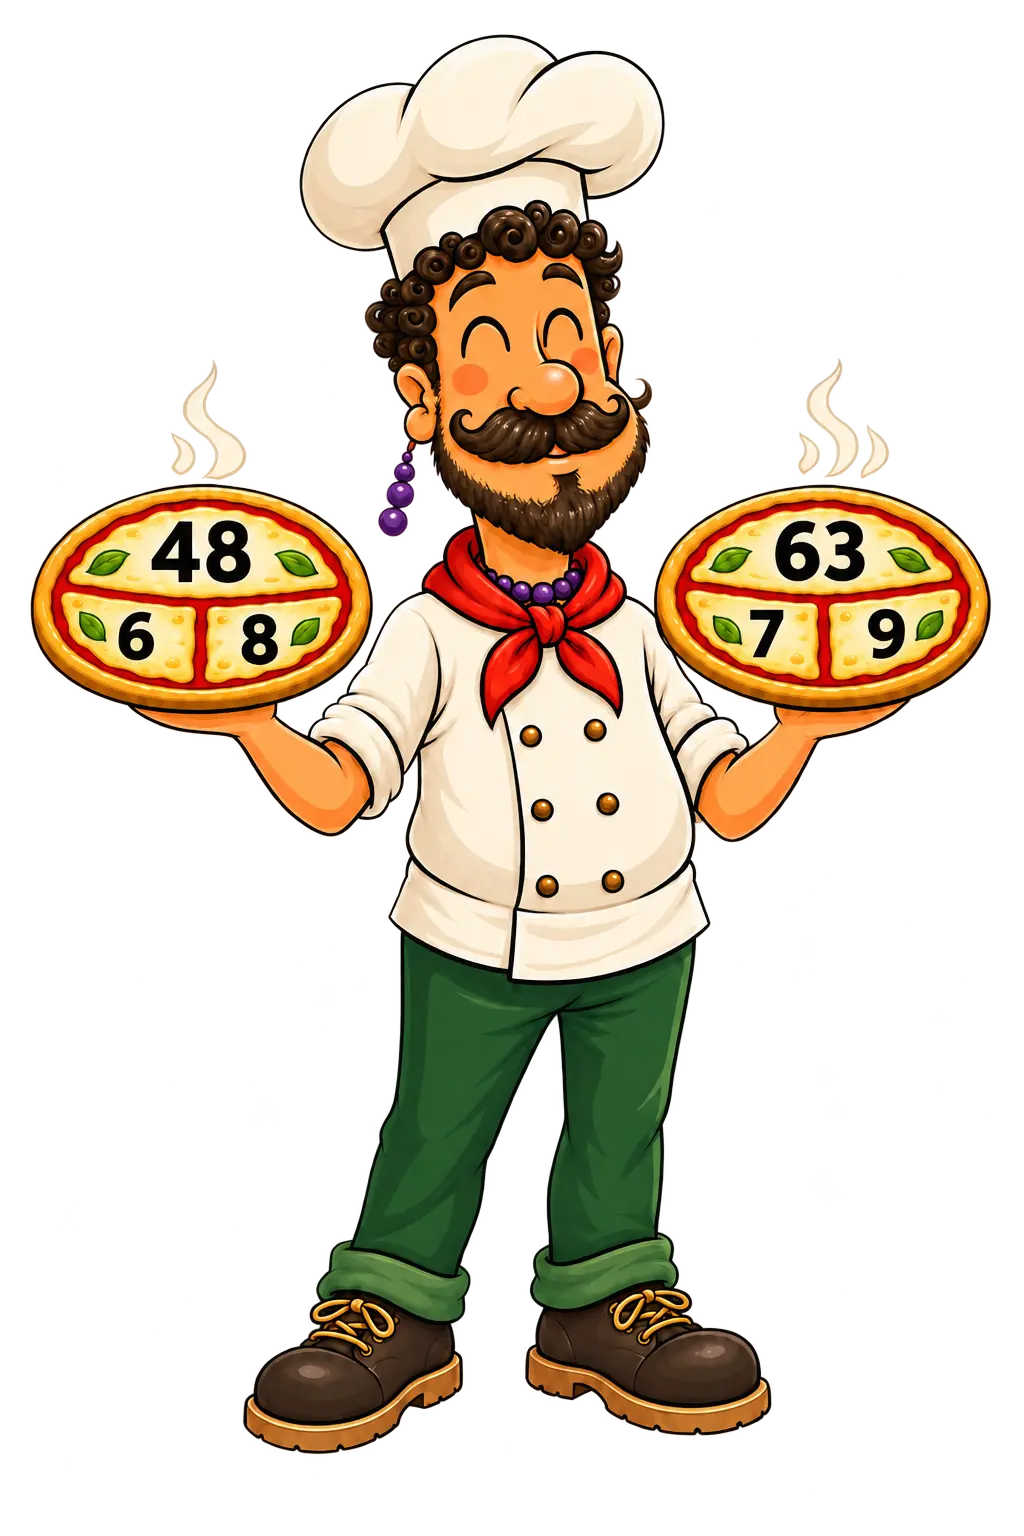
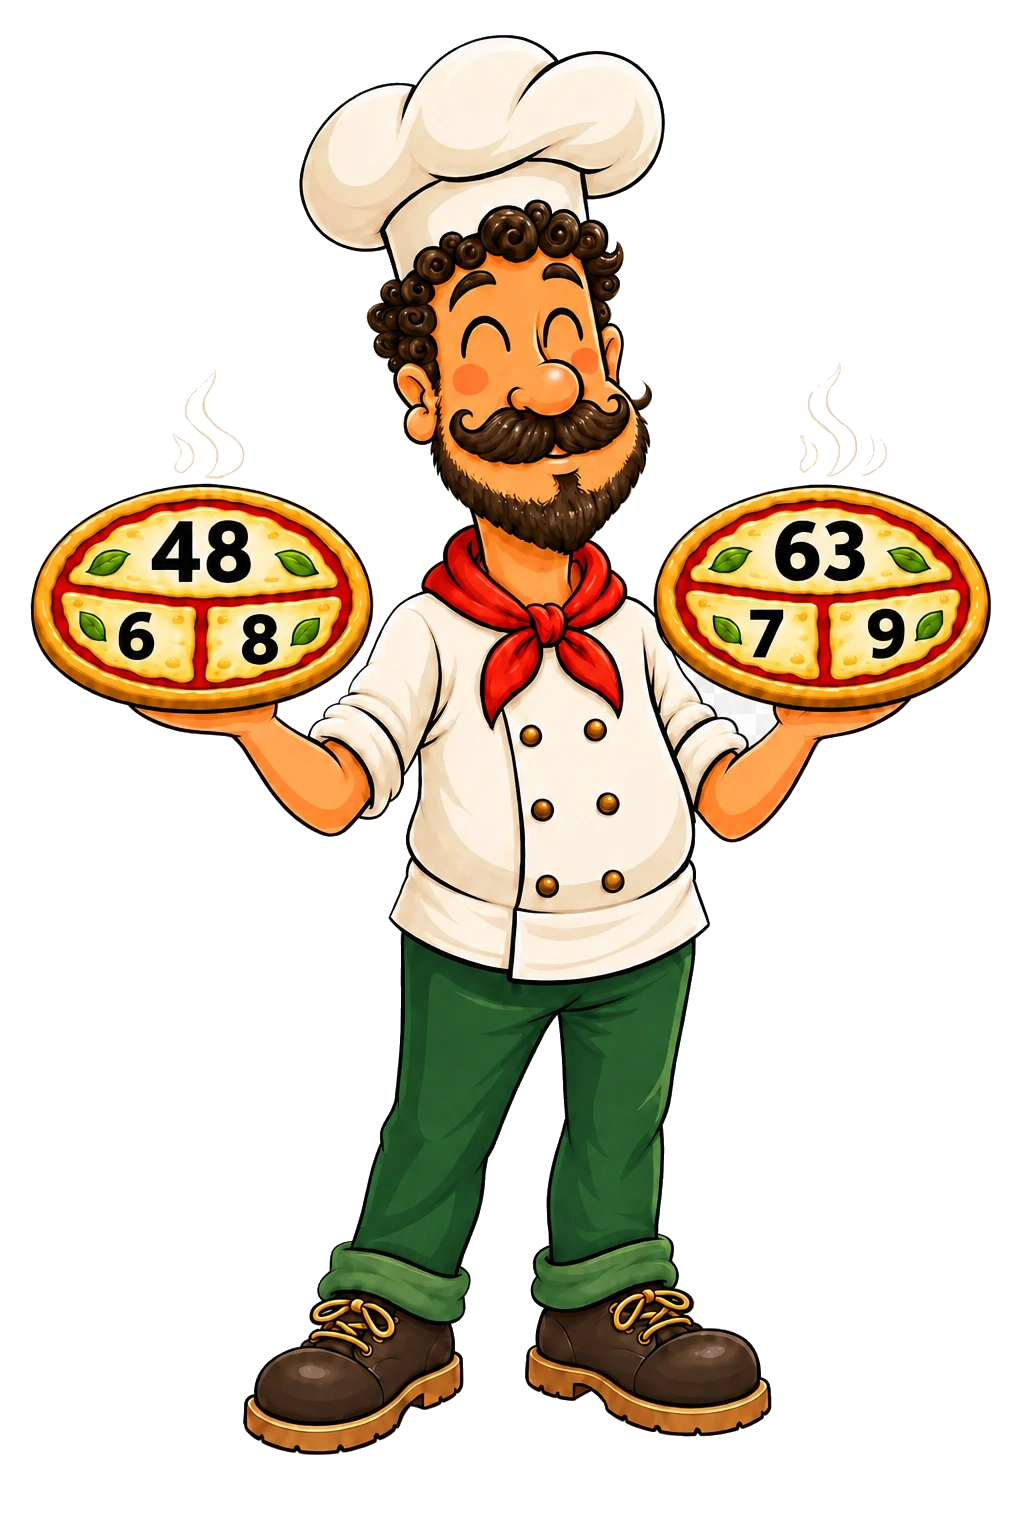
Add school windows with trees and heroes; remove Luigi jewelry throughout site

diff --git a/fps-windows.js b/fps-windows.js
@@ -1,0 +1,137 @@
+import * as THREE from 'three';
+import { createSpriteRig } from './fps-visuals.js?v=20260907-sprites1';
+
+// Decorative exterior, isolated from the game and multiplayer rules.
+export function createSchoolWindows({ scene, box, wallMaterial, wallHeight = 3.7 }) {
+  const x = 27, width = 7, sill = .65, top = 3.35;
+  const centers = [-16, 0, 16];
+  const frameMaterial = new THREE.MeshStandardMaterial({ color:0x375d67, roughness:.55 });
+  const sillMaterial = new THREE.MeshStandardMaterial({ color:0xf7ecd2, roughness:.75 });
+  const glassMaterial = new THREE.MeshBasicMaterial({
+    color:0xc5edff, transparent:true, opacity:.045, depthWrite:false,
+  });
+  let edge = -27;
+  for (const z of centers) {
+    const start = z - width/2, end = z + width/2;
+    box(x,wallHeight/2,(edge+start)/2,.45,wallHeight,start-edge,wallMaterial);
+    box(x,sill/2,z,.45,sill,width,wallMaterial);
+    box(x,(top+wallHeight)/2,z,.45,wallHeight-top,width,wallMaterial);
+    // Glass retains the original solid boundary, including for pencils/enemies.
+    const glass = box(x,(sill+top)/2,z,.025,top-sill,width,glassMaterial);
+    glass.castShadow = false;
+    for (const side of [-1,1]) box(x-.04,(sill+top)/2,z+side*width/2,.57,top-sill+.16,.12,frameMaterial,false);
+    for (const y of [sill,top]) box(x-.04,y,z,.57,.12,width+.12,frameMaterial,false);
+    // Narrow side panes leave an uninterrupted view of each character.
+    for (const side of [-1,1]) box(x-.06,(sill+top)/2,z+side*2.35,.13,top-sill,.07,frameMaterial,false);
+    box(x-.16,sill-.04,z,.92,.14,width+.28,sillMaterial,false);
+    edge = end;
+  }
+  box(x,wallHeight/2,(edge+27)/2,.45,wallHeight,27-edge,wallMaterial);
+
+  const exterior = new THREE.Group();
+  exterior.name = 'Vinduesudsigt med træer og matematikhelte';
+  scene.add(exterior);
+  const lawn = new THREE.Mesh(new THREE.PlaneGeometry(44,100),new THREE.MeshStandardMaterial({color:0x709856,roughness:1}));
+  lawn.rotation.x = -Math.PI/2;
+  lawn.position.set(49,-.03,0);
+  lawn.receiveShadow = true;
+  exterior.add(lawn);
+  const path = new THREE.Mesh(new THREE.PlaneGeometry(3.5,62),new THREE.MeshStandardMaterial({color:0xd4c2a1,roughness:1}));
+  path.rotation.x = -Math.PI/2;
+  path.position.set(30,.005,0);
+  exterior.add(path);
+  const trunkMaterial = new THREE.MeshStandardMaterial({color:0x78533b,roughness:1});
+  const leafMaterials = [0x507c40,0x649044,0x3d6b3d].map(color=>new THREE.MeshStandardMaterial({color,roughness:1}));
+  const trunkGeometry = new THREE.CylinderGeometry(.18,.3,3.3,7);
+  const crownGeometry = new THREE.IcosahedronGeometry(1.8,1);
+  const crowns = [];
+  for (let i=0;i<18;i++) {
+    const tree = new THREE.Group();
+    tree.position.set(36+(i%3)*6,0,-33+i*4);
+    tree.scale.setScalar(.8+(i%4)*.13);
+    const trunk = new THREE.Mesh(trunkGeometry,trunkMaterial);
+    trunk.position.y = 1.65; trunk.castShadow = true;
+    tree.add(trunk);
+    const crown = new THREE.Mesh(crownGeometry,leafMaterials[i%3]);
+    crown.position.y = 3.8; crown.scale.set(1,1.3,.9); crown.castShadow = true;
+    tree.add(crown); crowns.push(crown);
+    exterior.add(tree);
+  }
+
+  const heroes = [];
+  const ready = Promise.allSettled([
+    addHero('kaptajn-vindue-flex.png',-16,'Kaptajn Kvadratrod',true),
+    addHero('luigi-vindue-54-63.png',16,'Luigi · 54 og 63',false),
+  ]);
+  async function addHero(file,z,name,flex) {
+    try {
+      const source = await new THREE.TextureLoader().loadAsync(`assets/figurer/${file}`);
+      const texture = spriteTexture(source.image);
+      source.dispose();
+      const rig = createSpriteRig(texture,{
+        width:2.6,height:3.9,bodyY:1.95,
+        joints:{head:[.5,.88],leftArm:[.35,.80],rightArm:[.65,.80],leftLeg:[.42,.30],rightLeg:[.58,.30]},
+        skinWeights(u,v,ease) {
+          if (!flex) return null;
+          if (v>.74 && u<.39) return {bone:2,weight:(1-ease(u,.30,.39))*ease(v,.74,.82)};
+          if (v>.74 && u>.61) return {bone:3,weight:ease(u,.61,.70)*ease(v,.74,.82)};
+          return null;
+        },
+      });
+      rig.group.name = name;
+      rig.group.position.set(31,0,z);
+      rig.group.rotation.y = -Math.PI/2;
+      exterior.add(rig.group);
+      heroes.push({rig,flex});
+    } catch (error) {
+      console.warn(`Figuren ved vinduet kunne ikke indlæses: ${name}`,error);
+      throw error;
+    }
+  }
+  return {
+    ready,
+    update(time) {
+      const t = time*.001;
+      for (const {rig,flex} of heroes) {
+        if (flex) {
+          const squeeze = .5+.5*Math.sin(t*2.7);
+          rig.leftArm.rotation.z = -.08-squeeze*.10;
+          rig.rightArm.rotation.z = .08+squeeze*.10;
+          rig.body.scale.x = 1+squeeze*.025;
+        } else rig.group.rotation.z = Math.sin(t*1.5)*.012;
+      }
+      crowns.forEach((c,i)=>c.rotation.z=Math.sin(t*.8+i)*.025);
+    },
+  };
+}
+
+function spriteTexture(image) {
+  const canvas = document.createElement('canvas');
+  canvas.width = image.naturalWidth; canvas.height = image.naturalHeight;
+  const ctx = canvas.getContext('2d',{willReadFrequently:true});
+  ctx.drawImage(image,0,0);
+  const pixels = ctx.getImageData(0,0,canvas.width,canvas.height);
+  const data = pixels.data, w = canvas.width, h = canvas.height;
+  // Some source sprites include an opaque light checkerboard. Remove only
+  // edge-connected neutral background, preserving enclosed whites in clothing.
+  const seen = new Uint8Array(w*h), queue = new Int32Array(w*h);
+  let head = 0, tail = 0;
+  function push(i) {
+    if (seen[i]) return;
+    const p=i*4, lo=Math.min(data[p],data[p+1],data[p+2]), hi=Math.max(data[p],data[p+1],data[p+2]);
+    if (data[p+3]>0 && (lo<211 || hi-lo>25)) return;
+    seen[i]=1; queue[tail++]=i;
+  }
+  for (let xx=0;xx<w;xx++) { push(xx); push((h-1)*w+xx); }
+  for (let yy=0;yy<h;yy++) { push(yy*w); push(yy*w+w-1); }
+  while (head<tail) {
+    const i=queue[head++], xx=i%w;
+    data[i*4+3]=0;
+    if(xx>0) push(i-1); if(xx<w-1) push(i+1);
+    if(i>=w) push(i-w); if(i<w*(h-1)) push(i+w);
+  }
+  ctx.putImageData(pixels,0,0);
+  const texture = new THREE.CanvasTexture(canvas);
+  texture.colorSpace = THREE.SRGBColorSpace;
+  return texture;
+}

diff --git a/app.js b/app.js
@@ -568,7 +568,7 @@
             <h1>Matematik på solidt fundament</h1>
           </div>
           <div class="login-mastery-tower">
-            <img class="login-mastery-tower-image" src="assets/figurer/matematik-mestringstaarn.webp" width="858" height="1832" alt="Matematik-mestringstårn med Erling Ærgerlig nederst, Luigi Lækkermat med sine pizzaer, Divisions-Dennis med slikkepinde og Kaptajn Kvadratrod øverst" fetchpriority="high" decoding="async">
+            <img class="login-mastery-tower-image" src="assets/figurer/matematik-mestringstaarn.webp?v=20260907-no-smykker1" width="858" height="1832" alt="Matematik-mestringstårn med Erling Ærgerlig nederst, Luigi Lækkermat med sine pizzaer, Divisions-Dennis med slikkepinde og Kaptajn Kvadratrod øverst" fetchpriority="high" decoding="async">
           </div>
           <div class="character-stage" aria-label="Figurerne fra Jacob Matematik">
             <figure class="character-card captain" data-kaptajn-audio role="button" tabindex="0" aria-label="Afspil Kaptajn Kvadratrods superheltereplik">
@@ -580,7 +580,7 @@
               <figcaption>Divisions-Dennis</figcaption>
             </figure>
             <figure class="character-card luigi" data-luigi-audio role="button" tabindex="0" aria-label="Afspil Luigi Lækkermats italienske replik">
-              <div class="character-frame"><img src="assets/figurer/luigi-laekkermat.webp" width="900" height="1350" alt="Luigi Lækkermat med multiplikationspizzaer" decoding="async"></div>
+              <div class="character-frame"><img src="assets/figurer/luigi-laekkermat.webp?v=20260907-no-smykker1" width="900" height="1350" alt="Luigi Lækkermat med multiplikationspizzaer" decoding="async"></div>
               <figcaption>Luigi Lækkermat</figcaption>
             </figure>
             <figure class="character-card erling" data-erling-audio role="button" tabindex="0" aria-label="Afspil en sur kommentar fra Erling Ærgerlig">
@@ -898,7 +898,7 @@
         <span class="luigi-pizza-pop pizza-one" aria-hidden="true">🍕</span>
         <span class="luigi-pizza-pop pizza-two" aria-hidden="true">🍕</span>
         <span class="luigi-pizza-pop pizza-three" aria-hidden="true">🍕</span>
-        <img class="luigi-character" src="assets/figurer/luigi-laekkermat-cutout.webp" width="1024" height="1536" loading="lazy" decoding="async" alt="Luigi Lækkermat holder pizzaerne 48 delt i 6 og 8 samt 63 delt i 7 og 9">
+        <img class="luigi-character" src="assets/figurer/luigi-laekkermat-cutout.webp?v=20260907-no-smykker1" width="1024" height="1536" loading="lazy" decoding="async" alt="Luigi Lækkermat holder pizzaerne 48 delt i 6 og 8 samt 63 delt i 7 og 9">
       </button>
     </section>` : "";
 

diff --git a/fps.js b/fps.js
@@ -1,4 +1,5 @@
 import * as THREE from 'three';
+import { createSchoolWindows } from './fps-windows.js?v=20260907-windows1';
 import { createGameVoicePlayer } from './fps-voice.js?v=20260907-danish1';
 const gameVoice = createGameVoicePlayer();
 import { createPlayerMovement } from './fps-movement.js?v=20260907-ducts1';
@@ -9,7 +10,7 @@ import { createOnlineGame } from './fps-online.js?v=20260907-online1';
 let multiplayer = null;
 import { createSchoolyard } from './fps-schoolyard.js?v=20260907-courtyard1';
 import { PointerLockControls } from 'three/addons/controls/PointerLockControls.js';
-import { createErlingRig, animateErling, disposeErlingRig, addSchoolWallArt } from './fps-visuals.js?v=20260907-sprites1';
+import { createErlingRig, animateErling, disposeErlingRig, addSchoolWallArt } from './fps-visuals.js?v=20260907-no-smykker1';
 import { createGunnarRig, animateGunnar, disposeGunnarRig } from './fps-gunnar.js?v=20260907-sprites1';
 import { createElseRig, animateElse, disposeElseRig } from './fps-else.js?v=20260907-sprites1';
 
@@ -207,7 +208,7 @@ box(0, WALL_H + .1, 0, WORLD + .45, .2, WORLD + .45, interiorMaterials.ceiling, 
 box(0, WALL_H / 2, -WORLD / 2, WORLD, WALL_H, .45);
 box(0, WALL_H / 2, WORLD / 2, WORLD, WALL_H, .45);
 box(-WORLD / 2, WALL_H / 2, 0, .45, WALL_H, WORLD);
-box(WORLD / 2, WALL_H / 2, 0, .45, WALL_H, WORLD);
+const schoolWindows = createSchoolWindows({ scene, box, wallMaterial:wallMat, wallHeight:WALL_H });
 const schoolPartition = createDuctBuilder({ box, wallMaterial:wallMat, wallHeight:WALL_H, renderer });
 [
   [-13,-17,18,.35,true],[-13,1,18,.35],[-13,20,14,.35],
@@ -216,7 +217,7 @@ const schoolPartition = createDuctBuilder({ box, wallMaterial:wallMat, wallHeigh
   [-21,10,.35,14],[-6,10,.35,12,true],[9,10,.35,10,true],[21,10,.35,11],
 ].forEach(([x,z,w,d,hasDuct]) => schoolPartition(x,z,w,d,hasDuct));
 box(-26, 1.15, -2, .08, 1.25, 8, trimMat, false);
-box(26, 1.15, 5, .08, 1.25, 9, trimMat, false);
+box(26, 1.15, 7, .08, 1.25, 4, trimMat, false);
 box(-19, 1.65, -26.7, 8, 1.55, .08, mat(0x29483e), false);
 box(19, 1.65, 26.7, 8, 1.55, .08, mat(0x29483e), false);
 [
@@ -1117,6 +1118,7 @@ function update(dt, time) {
 function loop(t) {
   const dt = Math.min((t - last) / 1000, .04);
   last = t;
+  schoolWindows.update(t);
   update(dt,t);
   renderer.render(scene,camera);
   requestAnimationFrame(loop);

diff --git a/fps-visuals.js b/fps-visuals.js
@@ -166,7 +166,7 @@ export function addSchoolWallArt(scene, renderer) {
   ].forEach(([x, y, z, yaw]) => mount(brand.texture, 'jacobmatematik.dk', x, y, z, 5.2, 1.3, yaw));
 
   const heroes = [
-    { name: 'LUIGI LÆKKERMAT', file: 'luigi-laekkermat.webp', color: '#bf5738', motto: 'EN BID AD GANGEN', number: '01' },
+    { name: 'LUIGI LÆKKERMAT', file: 'luigi-laekkermat.webp?v=20260907-no-smykker1', color: '#bf5738', motto: 'EN BID AD GANGEN', number: '01' },
     { name: 'DIVISIONS-DENNIS', file: 'divisions-dennis.webp', color: '#277d7d', motto: 'DEL OG HERSK', number: '02' },
     { name: 'KAPTAJN KVADRATROD', file: 'kaptajn-kvadratrod.webp', color: '#335c7d', motto: 'STYR PÅ RØDDERNE', number: '03' },
   ];

diff --git a/fps.html b/fps.html
@@ -111,7 +111,7 @@
   <script src="https://cdn.jsdelivr.net/npm/@supabase/supabase-js@2"></script>
   <script src="supabase-config.js?v=66d7f7d7"></script>
   <script src="supabase-backend.js?v=20260907-online1"></script>
-  <script type="module" src="fps.js?v=20260907-online-danish1"></script>
+  <script type="module" src="fps.js?v=20260907-windows-no-smykker1"></script>
   <script src="fps-ammo-ui.js?v=20260905-ammo1" defer></script>
 </body>
 </html>

diff --git a/index.html b/index.html
@@ -49,7 +49,7 @@
   <script src="https://cdn.jsdelivr.net/npm/@supabase/supabase-js@2" defer></script>
   <script src="supabase-config.js?v=66d7f7d7" defer></script>
   <script src="supabase-backend.js?v=20260902-supabase1" defer></script>
-  <script src="app.js?v=20260907-tower1" defer></script>
+  <script src="app.js?v=20260907-no-smykker1" defer></script>
   <script src="dennis-audio.js?v=20260904-dennis1" defer></script>
 </body>
 </html>
